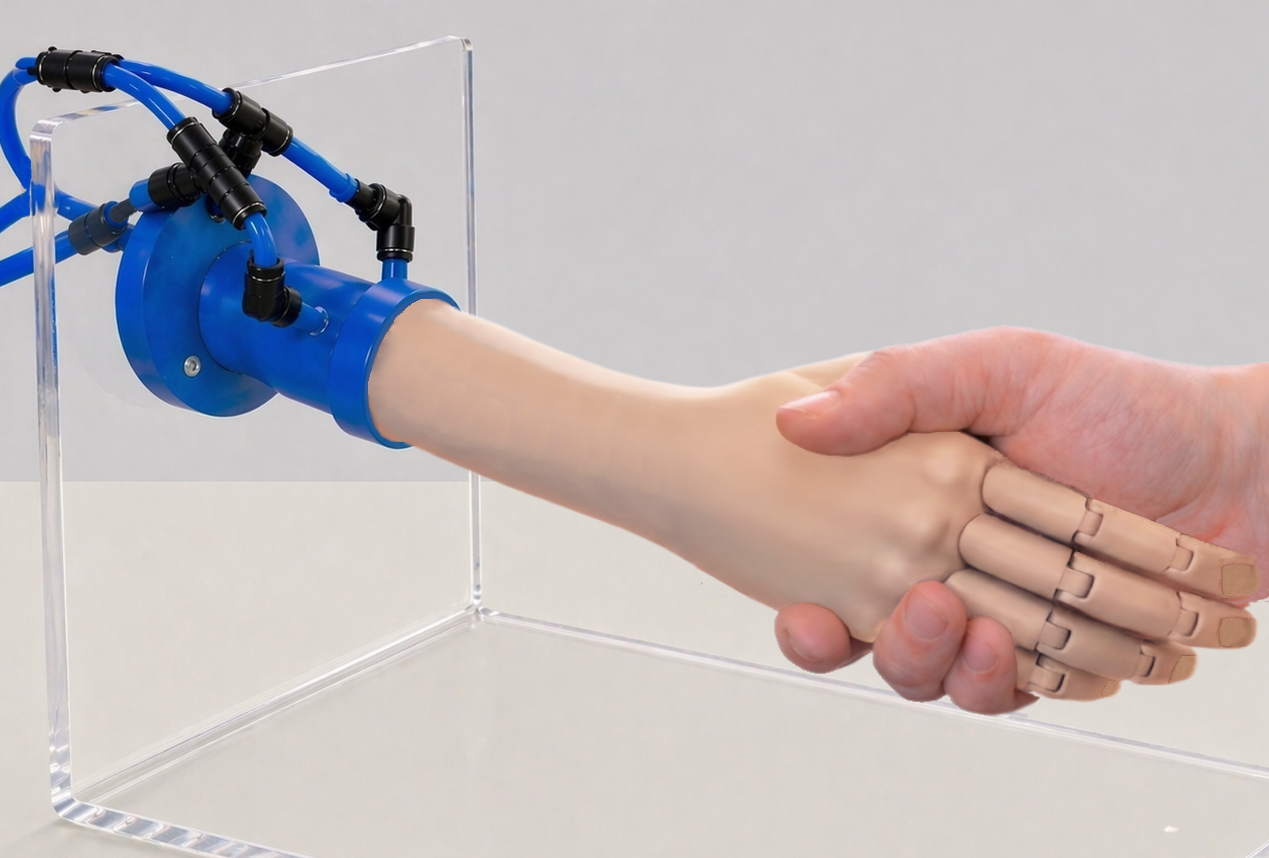
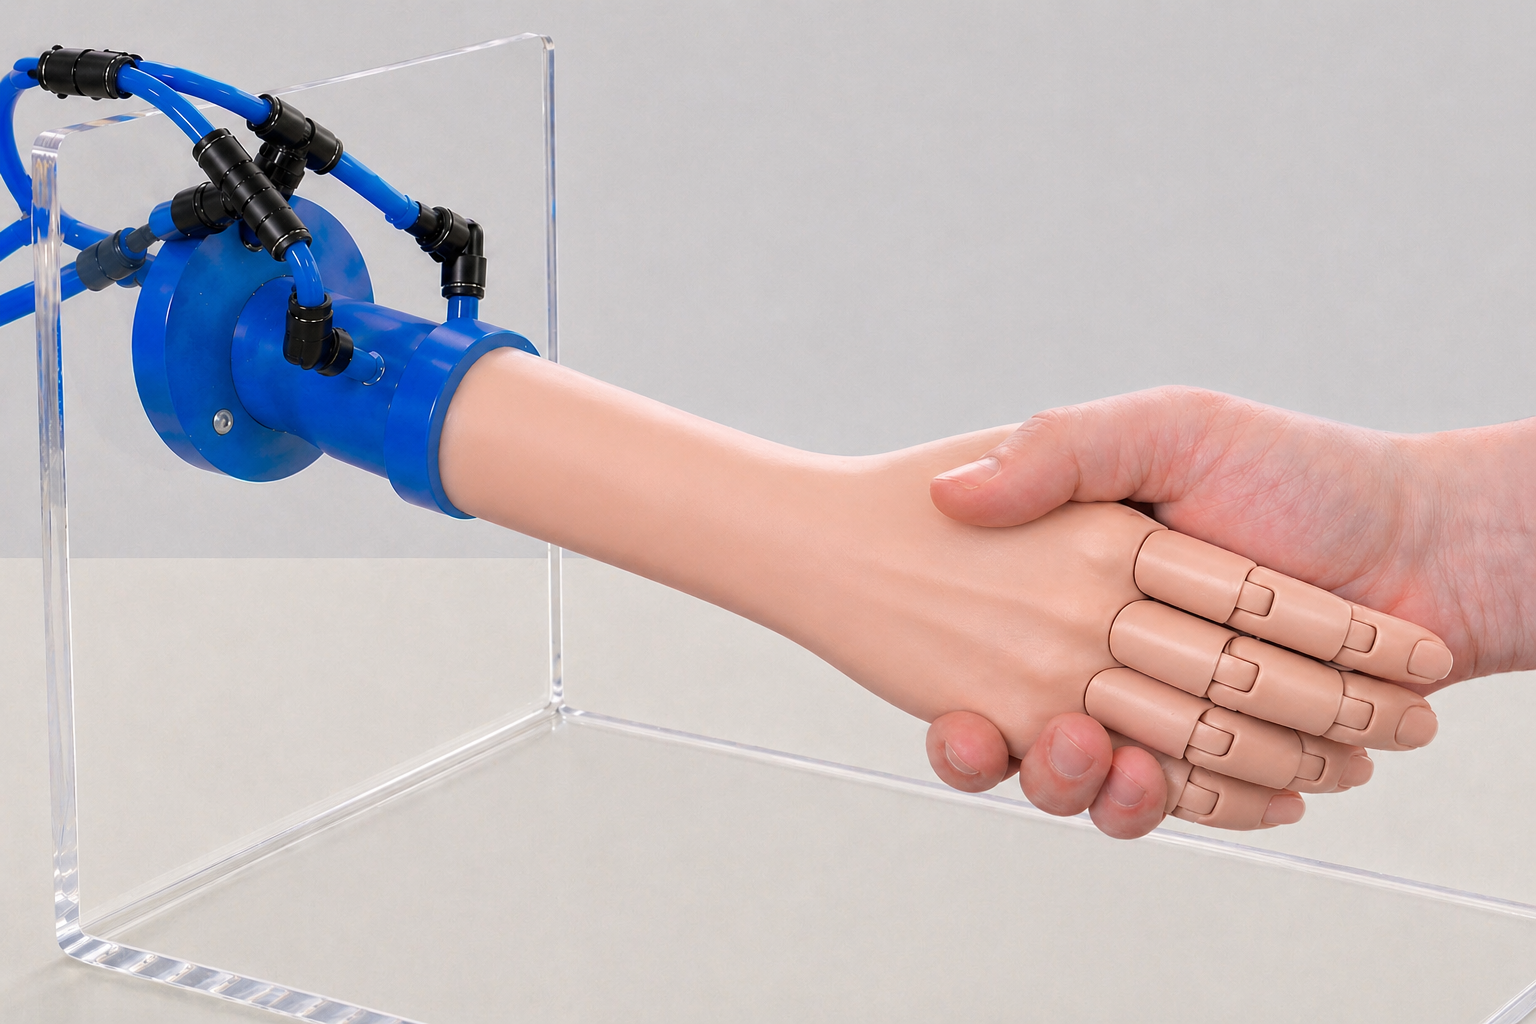
Minor changes + reference arm added

diff --git a/main.py b/main.py
@@ -126,7 +126,7 @@ np.random.shuffle(citrus_pairs)
 ## Arm Images (Main Task)
 
 arm_files = ["stimuli/arms/arm" + str(i) + ".png" for i in range(1,10)]
-ref_image = ImageStim(win, image="stimuli/arms/arm_reference.png", pos=(0, 0.3),
+ref_image = ImageStim(win, image="stimuli/arms/arm_reference.png", pos=(0, 0.2),
                       units='norm', size=(0.35, None))
 arm_pairs = [np.random.choice([arm_files[x], arm_files[y]], 2, replace=False) \
                 for y in range(len(arm_files)) \
@@ -430,12 +430,12 @@ if main2:
 ## Part 4: Arm comparison (Main Task 3)
 
 # Recreate images to set new size
-left_image = ImageStim(win, image=arm_files[0], pos=(-0.5, -0.2), units='norm',
+left_image = ImageStim(win, image=arm_files[0], pos=(-0.5, -0.1), units='norm',
                        size=(0.5, None))
 left_border = ShapeStim(win, vertices=left_image.verticesPix, units="pix", 
                         lineColor=(0,0,1), fillColor=None, colorSpace='rgb',
                         lineWidth=4)
-right_image = ImageStim(win, image=arm_files[1], pos=(0.5, -0.2), units='norm',
+right_image = ImageStim(win, image=arm_files[1], pos=(0.5, -0.1), units='norm',
                         size=(0.5, None))
 right_border = ShapeStim(win, vertices=right_image.verticesPix, units="pix", 
                          lineColor=(0,0,1), fillColor=None, colorSpace='rgb', 
@@ -443,8 +443,8 @@ right_border = ShapeStim(win, vertices=right_image.verticesPix, units="pix",
 
 left_caption.text = "ROBOTIC ARM A"
 right_caption.text = "ROBOTIC ARM B"
-left_caption.pos -= (0, 0.05)
-right_caption.pos -= (0, 0.05)
+left_caption.pos -= (0, 0.1)
+right_caption.pos -= (0, 0.1)
 
 # Reset images
 images = [left_image, right_image, left_caption, right_caption]
